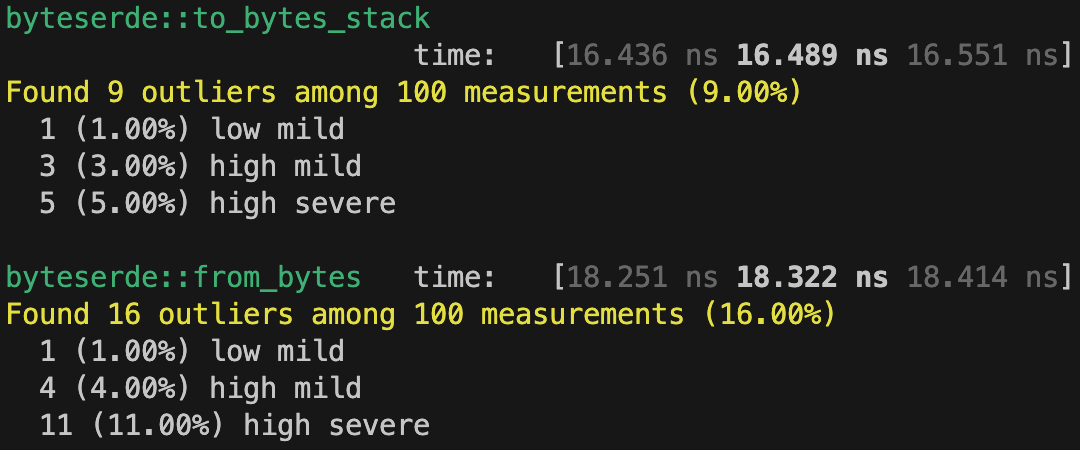
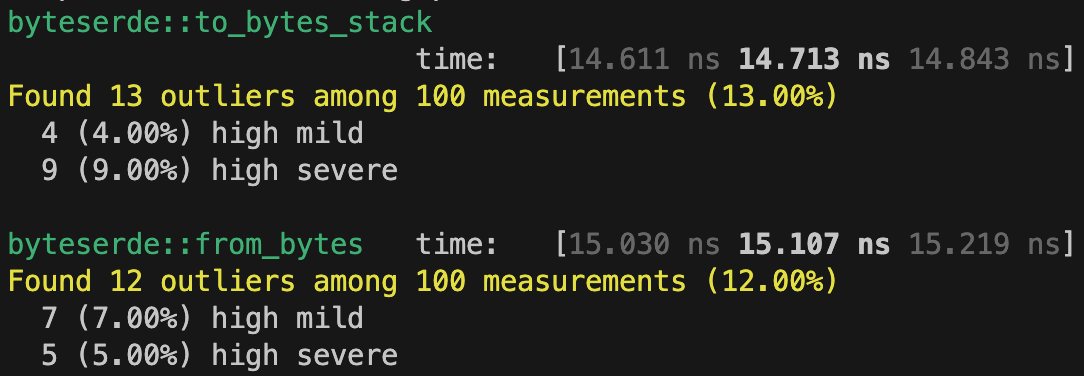
performance improvement

Changed region(s): [[0.0, 0.0, 1.0, 0.4973], [0.0, 0.5851, 1.0, 0.9947]]

diff --git a/byteserde/src/des.rs b/byteserde/src/des.rs
@@ -83,19 +83,7 @@ impl<'x> ByteDeserializer<'x> {
     pub fn is_empty(&self) -> bool {
         self.remaining() == 0
     }
-    /// returns an array of bytes whose length will be equal to argument `N`
-    pub fn deserialize_bytes_array<const N: usize>(&mut self) -> Result<[u8; N]> {
-        let a = self.peek_bytes_array()?;
-        self.idx += N;
-        Ok(a)
-    }
 
-    pub fn peek_bytes_array<const N: usize>(&self) -> Result<[u8; N]> {
-        match self.bytes.get(self.idx..self.idx + N) {
-            Some(v) => Ok(v.try_into().expect("Failed to convert &[u8] into [u8; N]")),
-            None => Err(self.error(N)),
-        }
-    }
 
     #[cold]
     fn error(&self, n: usize) -> SerDesError {
@@ -169,6 +157,16 @@ impl<'x> ByteDeserializer<'x> {
         }
     }
 
+
+    #[inline]
+    pub fn deserialize_bytes_array_ref<const N: usize>(&mut self) -> Result<&[u8; N]> {
+        let arr: Result<&[u8; N]> = match self.bytes.get(self.idx..self.idx + N) {
+            Some(v) => Ok(v.try_into().expect("Failed to convert &[u8] into &[u8; N]")),
+            None => Err(self.error(N)),
+        };
+        self.idx += N;
+        arr
+    }
     /// depletes `2` bytes for `u16`, etc. and returns after deserializing using `native` endianess
     /// FromNeBytes trait is already implemented for all rust's numeric primitives in this crate
     /// ```
@@ -177,9 +175,10 @@ impl<'x> ByteDeserializer<'x> {
     /// let v: u16 = des.deserialize_ne().unwrap();
     /// // ... etc
     /// ```    
+    #[inline]
     pub fn deserialize_ne<const N: usize, T: FromNeBytes<N, T>>(&mut self) -> Result<T> {
-        let r = self.deserialize_bytes_array::<N>()?;
-        Ok(T::from_bytes(r))
+        let r = self.deserialize_bytes_array_ref::<N>()?;
+        Ok(T::from_bytes_ref(r))
     }
     /// depletes `2` bytes for `u16`, etc. and returns after deserializing using `little` endianess
     /// FromLeBytes trait is already implemented for all rust's numeric primitives in this crate
@@ -189,9 +188,10 @@ impl<'x> ByteDeserializer<'x> {
     /// let v: u16 = des.deserialize_le().unwrap();
     /// // ... etc
     /// ```
+    #[inline]
     pub fn deserialize_le<const N: usize, T: FromLeBytes<N, T>>(&mut self) -> Result<T> {
-        let r = self.deserialize_bytes_array::<N>()?;
-        Ok(T::from_bytes(r))
+        let r = self.deserialize_bytes_array_ref::<N>()?;
+        Ok(T::from_bytes_ref(r))
     }
     /// depletes `2` bytes for `u16`, etc. and returns after deserializing using `big` endianess
     /// FromBeBytes trait is already implemented for all rust's numeric primitives in this crate
@@ -201,9 +201,10 @@ impl<'x> ByteDeserializer<'x> {
     /// let v: u16 = des.deserialize_be().unwrap();
     /// // ... etc
     /// ```
+    #[inline]
     pub fn deserialize_be<const N: usize, T: FromBeBytes<N, T>>(&mut self) -> Result<T> {
-        let r = self.deserialize_bytes_array::<N>()?;
-        Ok(T::from_bytes(r))
+        let r = self.deserialize_bytes_array_ref::<N>()?;
+        Ok(T::from_bytes_ref(r))
     }
     /// creates a new instance of `T` type `struct`, depleating exactly the right amount of bytes from [ByteDeserializer]
     /// `T` must implement [ByteDeserialize] trait

diff --git a/byteserde/src/ser.rs b/byteserde/src/ser.rs
@@ -125,18 +125,14 @@ impl<const CAP: usize> ByteSerializerStack<CAP> {
     }
 
     /// Serializes entire slice into the buffer, returns [SerDesError] if required capacity is exceeded.
+    // #[inline]
     pub fn serialize_bytes_slice(&mut self, bytes: &[u8]) -> Result<&mut Self> {
         let input_len = bytes.len();
         let avail = self.avail();
         match input_len > avail {
             false => {
-                // TODO try using copy from slice as safer alternative
-                // T.serialize(&serializer) - reuse serializer each iter
-                //         time:   [62.164 ns 64.446 ns 67.565 ns]
-                // self.bytes[self.len..self.len+input_len].copy_from_slice(&bytes);
-                // 50% improvement using unsafe
-                // T.serialize(&serializer) - reuse serializer each iter
-                //         time:   [29.611 ns 30.166 ns 30.881 ns]
+                // safe -> self.bytes[self.len..self.len+bytes.len()].copy_from_slice(bytes); 
+                // safe 60ns vs 15ns unsafe using bench and reference struct
                 unsafe {
                     std::ptr::copy_nonoverlapping(
                         bytes.as_ptr(),
@@ -144,13 +140,10 @@ impl<const CAP: usize> ByteSerializerStack<CAP> {
                         bytes.len(),
                     );
                 }
-
                 self.len += bytes.len();
                 Result::Ok(self)
             }
-            true => {
-                Err(self.error(bytes.len()))
-            }
+            true => Err(self.error(bytes.len())),
         }
     }
 
@@ -204,6 +197,19 @@ impl<const CAP: usize> ByteSerializerStack<CAP> {
     }
 }
 
+#[cfg(test)]
+mod tests{
+    #[test]
+    fn run(){
+        let mut dest = [0_u8;10];
+        let src = &[1_u8, 2][..];
+        println!("{:?}", dest);
+        let from = 3;
+        let to = from + src.len();
+        dest[from..to].copy_from_slice(src);
+        println!("{:?}", dest);
+    }
+}
 /// Analogous to [`to_bytes_stack::<CAP>()`], but returns an instance of [`ByteSerializerStack<CAP>`].
 pub fn to_serializer_stack<const CAP: usize, T>(v: &T) -> Result<ByteSerializerStack<CAP>>
 where
@@ -262,9 +268,16 @@ pub trait ByteSerializeHeap {
 ///
 /// ser.reset();
 /// assert_eq!(ser.is_empty(), true);
-#[derive(Debug, Default, Clone)]
+#[derive(Debug, Clone)]
 pub struct ByteSerializerHeap {
     bytes: Vec<u8>,
+}
+impl Default for ByteSerializerHeap{
+    fn default() -> Self {
+        ByteSerializerHeap{
+            bytes: Vec::with_capacity(1024),
+        }
+    }
 }
 /// Provides a convenient way to view buffer content as both HEX and ASCII bytes where prinable.
 /// supports both forms of alternate formatting `{:x}` and `{:#x}`.

diff --git a/byteserde_examples/benches/sample.rs b/byteserde_examples/benches/sample.rs
@@ -2,36 +2,63 @@ use byteserde_derive::{ByteDeserialize, ByteSerializeHeap, ByteSerializeStack};
 use serde::{Deserialize, Serialize};
 
 #[rustfmt::skip]
-#[derive(Debug, PartialEq, ByteSerializeStack, ByteSerializeHeap, ByteDeserialize, Default, Serialize, Deserialize)]
-#[byteserde(endian = "le")]
+#[derive(Debug, PartialEq, ByteSerializeStack, ByteSerializeHeap, ByteDeserialize, Serialize, Deserialize)]
+// #[byteserde(endian = "le")]
 pub struct Integers {
     type_i8: i8,
-    #[byteserde(endian = "be")]
     type_u8: u8,
     type_i16: i16,
-    #[byteserde(endian = "be")]
     type_u16: u16,
     type_i32: i32,
-    #[byteserde(endian = "be")]
     type_u32: u32,
     type_i64: i64,
-    #[byteserde(endian = "be")]
     type_u64: u64,
     type_i128: i128,
-    #[byteserde(endian = "be")]
     type_u128: u128,
 }
-#[rustfmt::skip]
-#[derive(Debug, PartialEq, ByteSerializeStack, ByteSerializeHeap, ByteDeserialize, Default, Serialize, Deserialize)]
-#[byteserde(endian = "le")]
-pub struct Floats {
-    pub type_f32: f32,
-    #[byteserde(endian = "be")]
-    pub type_f64: f64,
+impl Default for Integers{
+    fn default() -> Self {
+        Self {
+            type_i8: -8,
+            type_u8: 8,
+            type_i16: -16,
+            type_u16: 16,
+            type_i32: -32,
+            type_u32: 32,
+            type_i64: -64,
+            type_u64: 64,
+            type_i128: -128,
+            type_u128: 128,
+        }
+    }
 }
 #[rustfmt::skip]
-#[derive(Debug, PartialEq, ByteSerializeStack, ByteSerializeHeap, ByteDeserialize, Default, Serialize, Deserialize)]
+#[derive(Debug, PartialEq, ByteSerializeStack, ByteSerializeHeap, ByteDeserialize, Serialize, Deserialize)]
+// #[byteserde(endian = "be")]
+pub struct Floats {
+    pub type_f32: f32,
+    pub type_f64: f64,
+}
+impl Default for Floats{
+    fn default() -> Self {
+        Self {
+            type_f32: 1.32,
+            type_f64: 2.64,
+        }
+    }
+}
+
+#[rustfmt::skip]
+#[derive(Debug, PartialEq, ByteSerializeStack, ByteSerializeHeap, ByteDeserialize, Serialize, Deserialize)]
 pub struct Numbers {
     pub type_header: Integers,
     pub type_footer: Floats,
+}
+impl Default for Numbers{
+    fn default() -> Self {
+        Self {
+            type_header: Integers::default(),
+            type_footer: Floats::default(),
+        }
+    }
 }

diff --git a/byteserde/src/utils/numerics/le_bytes.rs b/byteserde/src/utils/numerics/le_bytes.rs
@@ -13,7 +13,7 @@ pub trait ToLeBytes<const N: usize> {
 macro_rules! impl_ToLeBytes {
     ($name:ty, $len:expr) => {
         impl $crate::utils::numerics::le_bytes::ToLeBytes<$len> for $name {
-            #[inline(always)]
+            #[inline]
             fn to_bytes(&self) -> [u8; $len] {
                 self.to_le_bytes()
             }
@@ -37,6 +37,7 @@ impl_ToLeBytes!(isize, USIZE);
 // //////////////////////////////////////////////////////////////////////
 pub trait FromLeBytes<const N: usize, T> {
     fn from_bytes(v: [u8; N]) -> T;
+    fn from_bytes_ref(v: &[u8; N]) -> T;
 }
 
 /// calling
@@ -50,9 +51,13 @@ pub trait FromLeBytes<const N: usize, T> {
 macro_rules! impl_FromLeBytes {
     ($name:ty, $len:expr) => {
         impl $crate::utils::numerics::le_bytes::FromLeBytes<$len, $name> for $name {
-            #[inline(always)]
+            #[inline]
             fn from_bytes(v: [u8; $len]) -> $name {
                 <$name>::from_le_bytes(v)
+            }
+            #[inline]
+            fn from_bytes_ref(v: &[u8; $len]) -> $name {
+                <$name>::from_le_bytes(*v)
             }
         }
     };

diff --git a/byteserde/src/utils/numerics/ne_bytes.rs b/byteserde/src/utils/numerics/ne_bytes.rs
@@ -13,7 +13,7 @@ pub trait ToNeBytes<const N: usize> {
 macro_rules! impl_ToNeBytes {
     ($name:ty, $len:expr) => {
         impl $crate::utils::numerics::ne_bytes::ToNeBytes<$len> for $name {
-            #[inline(always)]
+            #[inline]
             fn to_bytes(&self) -> [u8; $len] {
                 self.to_ne_bytes()
             }
@@ -38,6 +38,7 @@ impl_ToNeBytes!(isize, USIZE);
 // //////////////////////////////////////////////////////////////////////
 pub trait FromNeBytes<const N: usize, T> {
     fn from_bytes(v: [u8; N]) -> T;
+    fn from_bytes_ref(v: &[u8; N]) -> T;
 }
 
 /// calling
@@ -51,9 +52,13 @@ pub trait FromNeBytes<const N: usize, T> {
 macro_rules! impl_FromNeBytes {
     ($name:ty, $len:expr) => {
         impl $crate::utils::numerics::ne_bytes::FromNeBytes<$len, $name> for $name {
-            #[inline(always)]
+            #[inline]
             fn from_bytes(v: [u8; $len]) -> $name {
                 <$name>::from_ne_bytes(v)
+            }
+            #[inline]
+            fn from_bytes_ref(v: &[u8; $len]) -> $name {
+                <$name>::from_ne_bytes(*v)
             }
         }
     };

diff --git a/byteserde/src/utils/numerics/be_bytes.rs b/byteserde/src/utils/numerics/be_bytes.rs
@@ -13,7 +13,7 @@ pub trait ToBeBytes<const N: usize> {
 macro_rules! impl_ToBeBytes {
     ($name:ty, $len:expr) => {
         impl $crate::utils::numerics::be_bytes::ToBeBytes<$len> for $name {
-            #[inline(always)]
+            #[inline]
             fn to_bytes(&self) -> [u8; $len] {
                 self.to_be_bytes()
             }
@@ -37,6 +37,7 @@ impl_ToBeBytes!(isize, USIZE);
 
 pub trait FromBeBytes<const N: usize, T> {
     fn from_bytes(v: [u8; N]) -> T;
+    fn from_bytes_ref(v: &[u8; N]) -> T;
 }
 
 /// calling
@@ -50,9 +51,13 @@ pub trait FromBeBytes<const N: usize, T> {
 macro_rules! impl_FromBeBytes {
     ($name:ty, $len:expr) => {
         impl $crate::utils::numerics::be_bytes::FromBeBytes<$len, $name> for $name {
-            #[inline(always)]
+            #[inline]
             fn from_bytes(v: [u8; $len]) -> $name {
                 <$name>::from_be_bytes(v)
+            }
+            #[inline]
+            fn from_bytes_ref(v: &[u8; $len]) -> $name {
+                <$name>::from_be_bytes(*v)
             }
         }
     };

diff --git a/byteserde_derive/src/tokens_struct.rs b/byteserde_derive/src/tokens_struct.rs
@@ -237,9 +237,9 @@ fn setup_array(
 
     let des_vars = match option {
         FieldType::ArrBytes { signed, .. } => match signed {
-            false => quote!( let #var_name: [#arr_ty; #len] = des.deserialize_bytes_array()?; ),
+            false => quote!( let #var_name: [#arr_ty; #len] = *des.deserialize_bytes_array_ref()?; ),
             true => {
-                quote!( let #var_name: [u8; #len] = des.deserialize_bytes_array()?; 
+                quote!( let #var_name: [u8; #len] = *des.deserialize_bytes_array_ref()?; 
                         let #var_name: [#arr_ty; #len] = unsafe { ::std::mem::transmute(#var_name) }; )
             }
         },

diff --git a/readme.md b/readme.md
@@ -5,21 +5,21 @@
   
   * To be able to define rust `struct` that represent application data models while at the same time not having to write code and instead using `derive` annotations and attributes auto-generate code to put these models on the wire for `new` or `existing` `latency` sensetive network protocols. Hence any and all auto generated serialization code should be as fast as one can possibly write by hand. 
   
-* Benchmark results show a reference structure takes:
-  * `byteserde` - `~17ns` read/write 
-  * `bincode` - `~100ns` write / `~15ns` read - looks like write has a perfomance bug.
+* Benchmark results below show a performance summary of serializing & deserializing identical `sample` struct with only numeric fields using different frameworkds available:
+  * `byteserde` - `~15ns` read/write 
+  * `bincode` - `~15ns` read / `~100ns` write - this is likely result of the of the write producing a heap allocated vector
   * `rmp-serde` - `~215ns` read/write
-  * `serde_json` - `~600ns` read/write.
-  * refer to [this document](./byteserde_examples/readme.md) for further details.
+  * `serde_json` - `~600ns` read/write - understandably slow due to strings usage
+  * refer to [this document](./byteserde_examples/readme.md) for full benchmark details.
 
 
 # Benefit case
-* If you work with network protocols that deliver data in `byte stream` format and a well defined sequence you can use this product to quickly and efficently map your `byte stream` into a `struct` of your choice at zero performance cost and focus on the business logic instead of parsing and mapping.
-  * Example:
+* If you work with network protocols that deliver data in `byte stream` format you can use this product to efficently map your `byte stream` into a `struct` of your choice at zero performance cost and focus on the business logic instead of parsing and mapping. 
+* Please note that unlike `bincode`, which comes with its own [wire specification](https://github.com/bincode-org/bincode/blob/trunk/docs/spec.md) for language `primitives`, which you can then use to enchode a `message/action` and send it across the wire, this product is designed to take an existing `message/action` specificaiton and map it to a a rust `struct`.
+  * See example specifications which are posssible to map to a rust struct using this product but not `bincode`:
     * [Ouch5](http://nasdaqtrader.com/content/technicalsupport/specifications/TradingProducts/Ouch5.0.pdf)
     * [SoupBinTCP](https://www.nasdaq.com/docs/SoupBinTCP%204.1.pdf)
     * etc..
-
 
 
 # The project contains three craits

diff --git a/byteserde_examples/readme.md b/byteserde_examples/readme.md
@@ -10,7 +10,7 @@
 
 ### Results
   
-### `byteserde` - takes about ~`17ns` to read or write to a byte stream
+### `byteserde` - takes about ~`15ns` to read or write to a byte stream
 
 ![alt text](readme/byteserde_bench.png)
 
